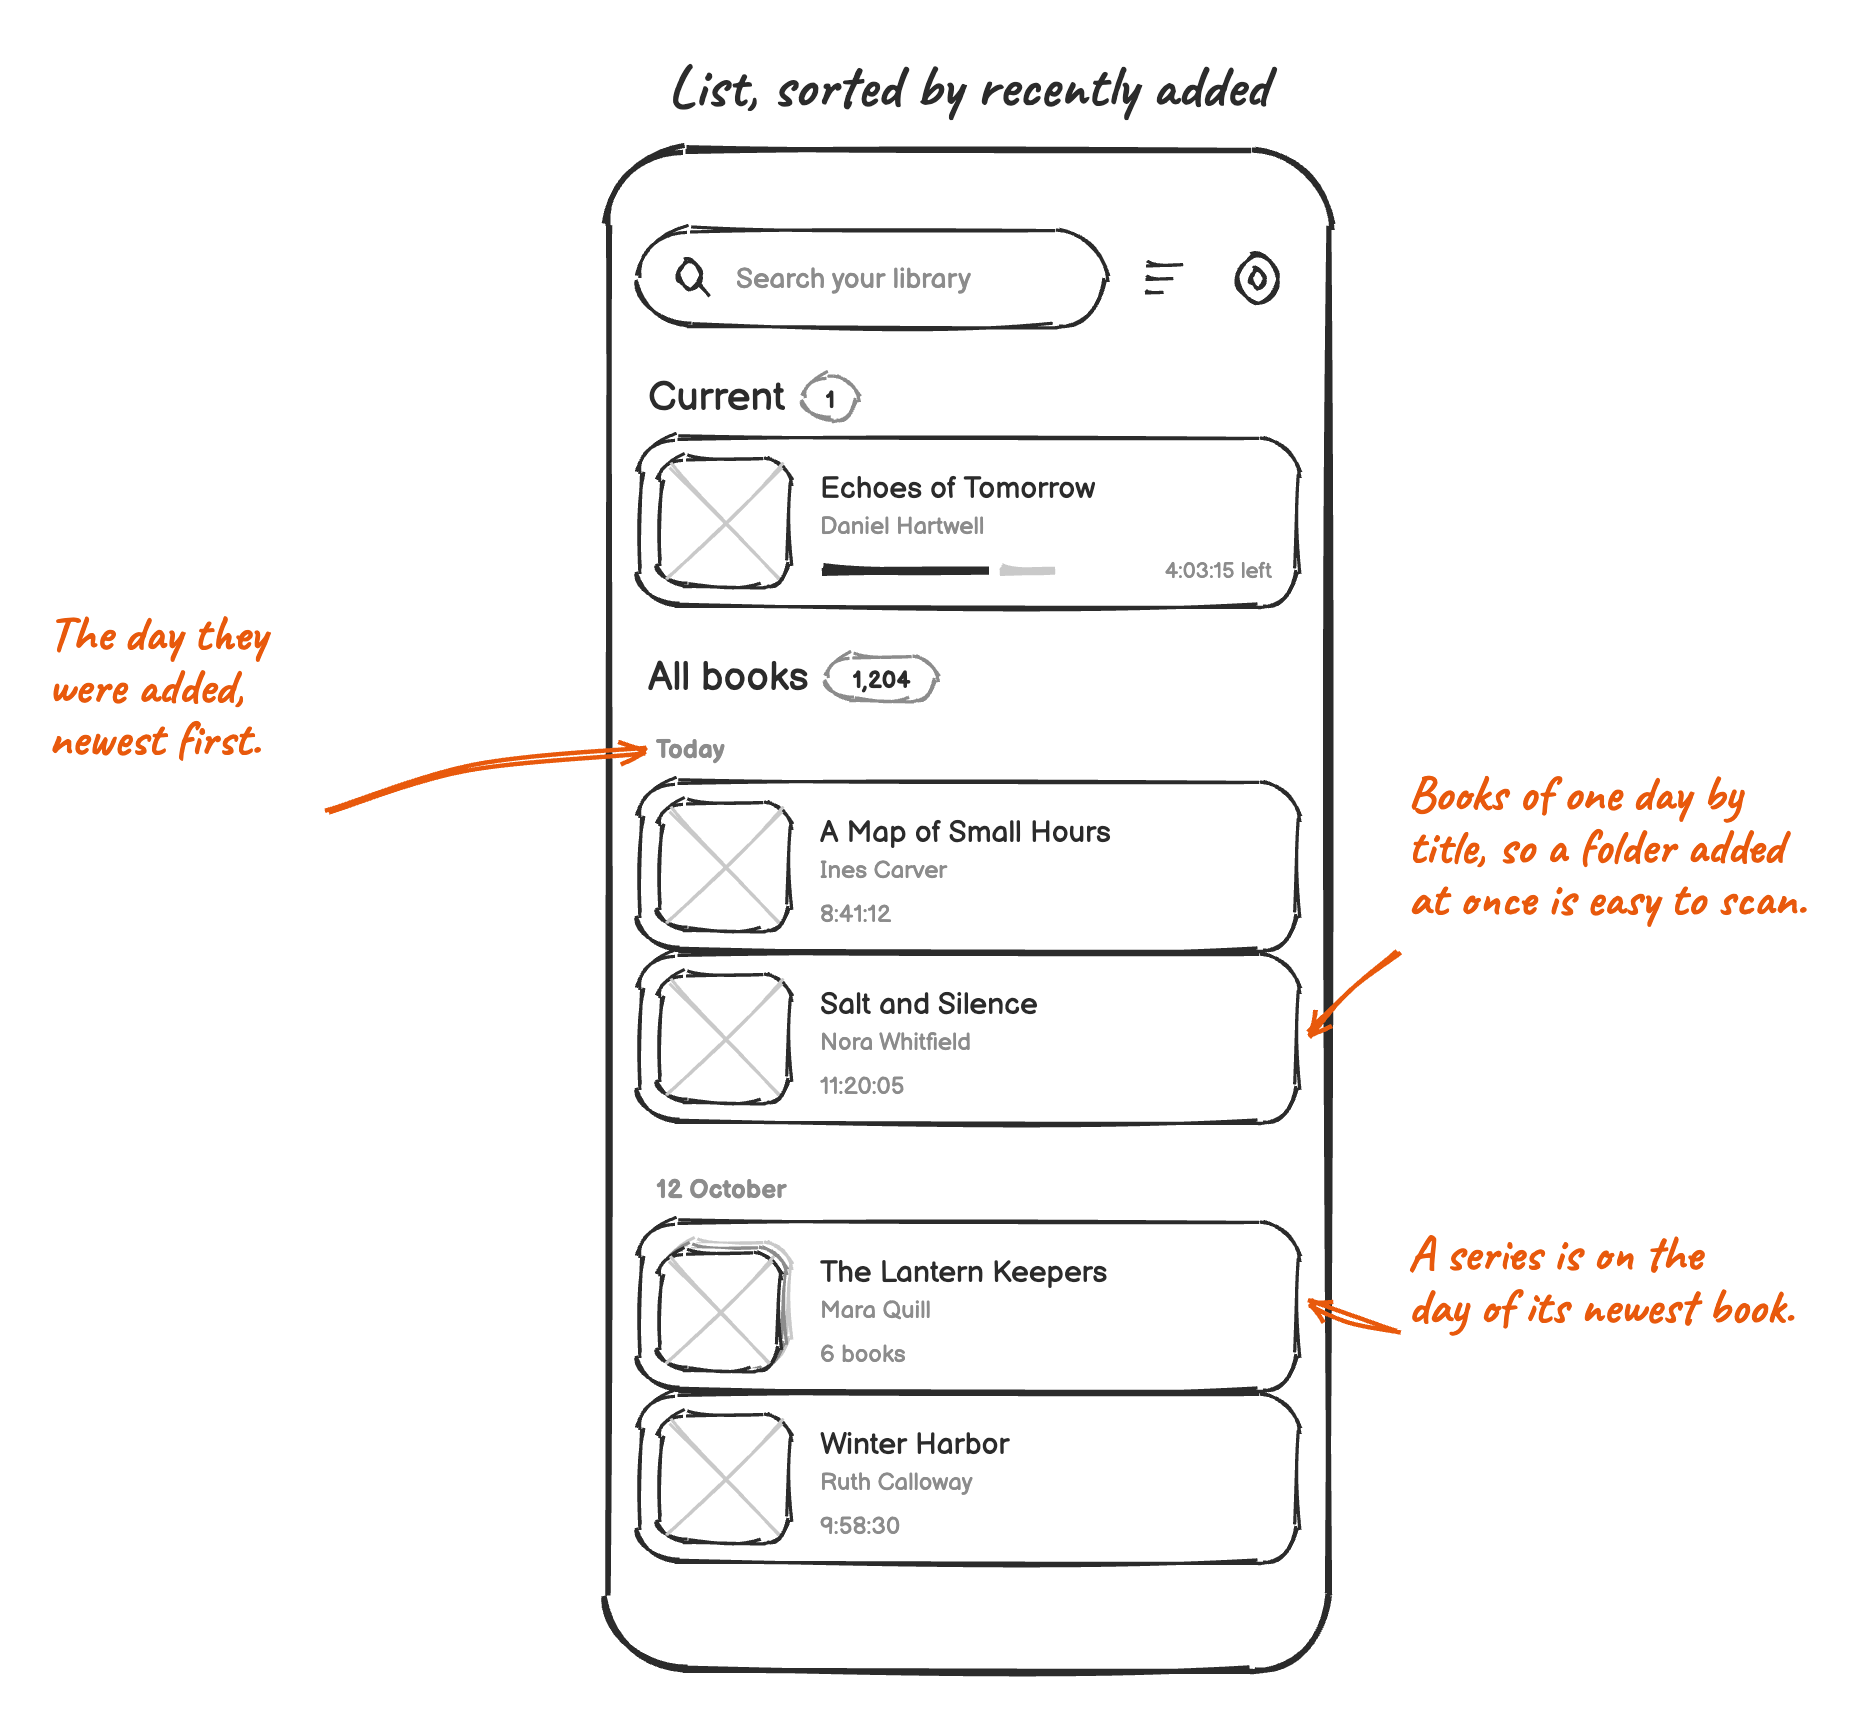
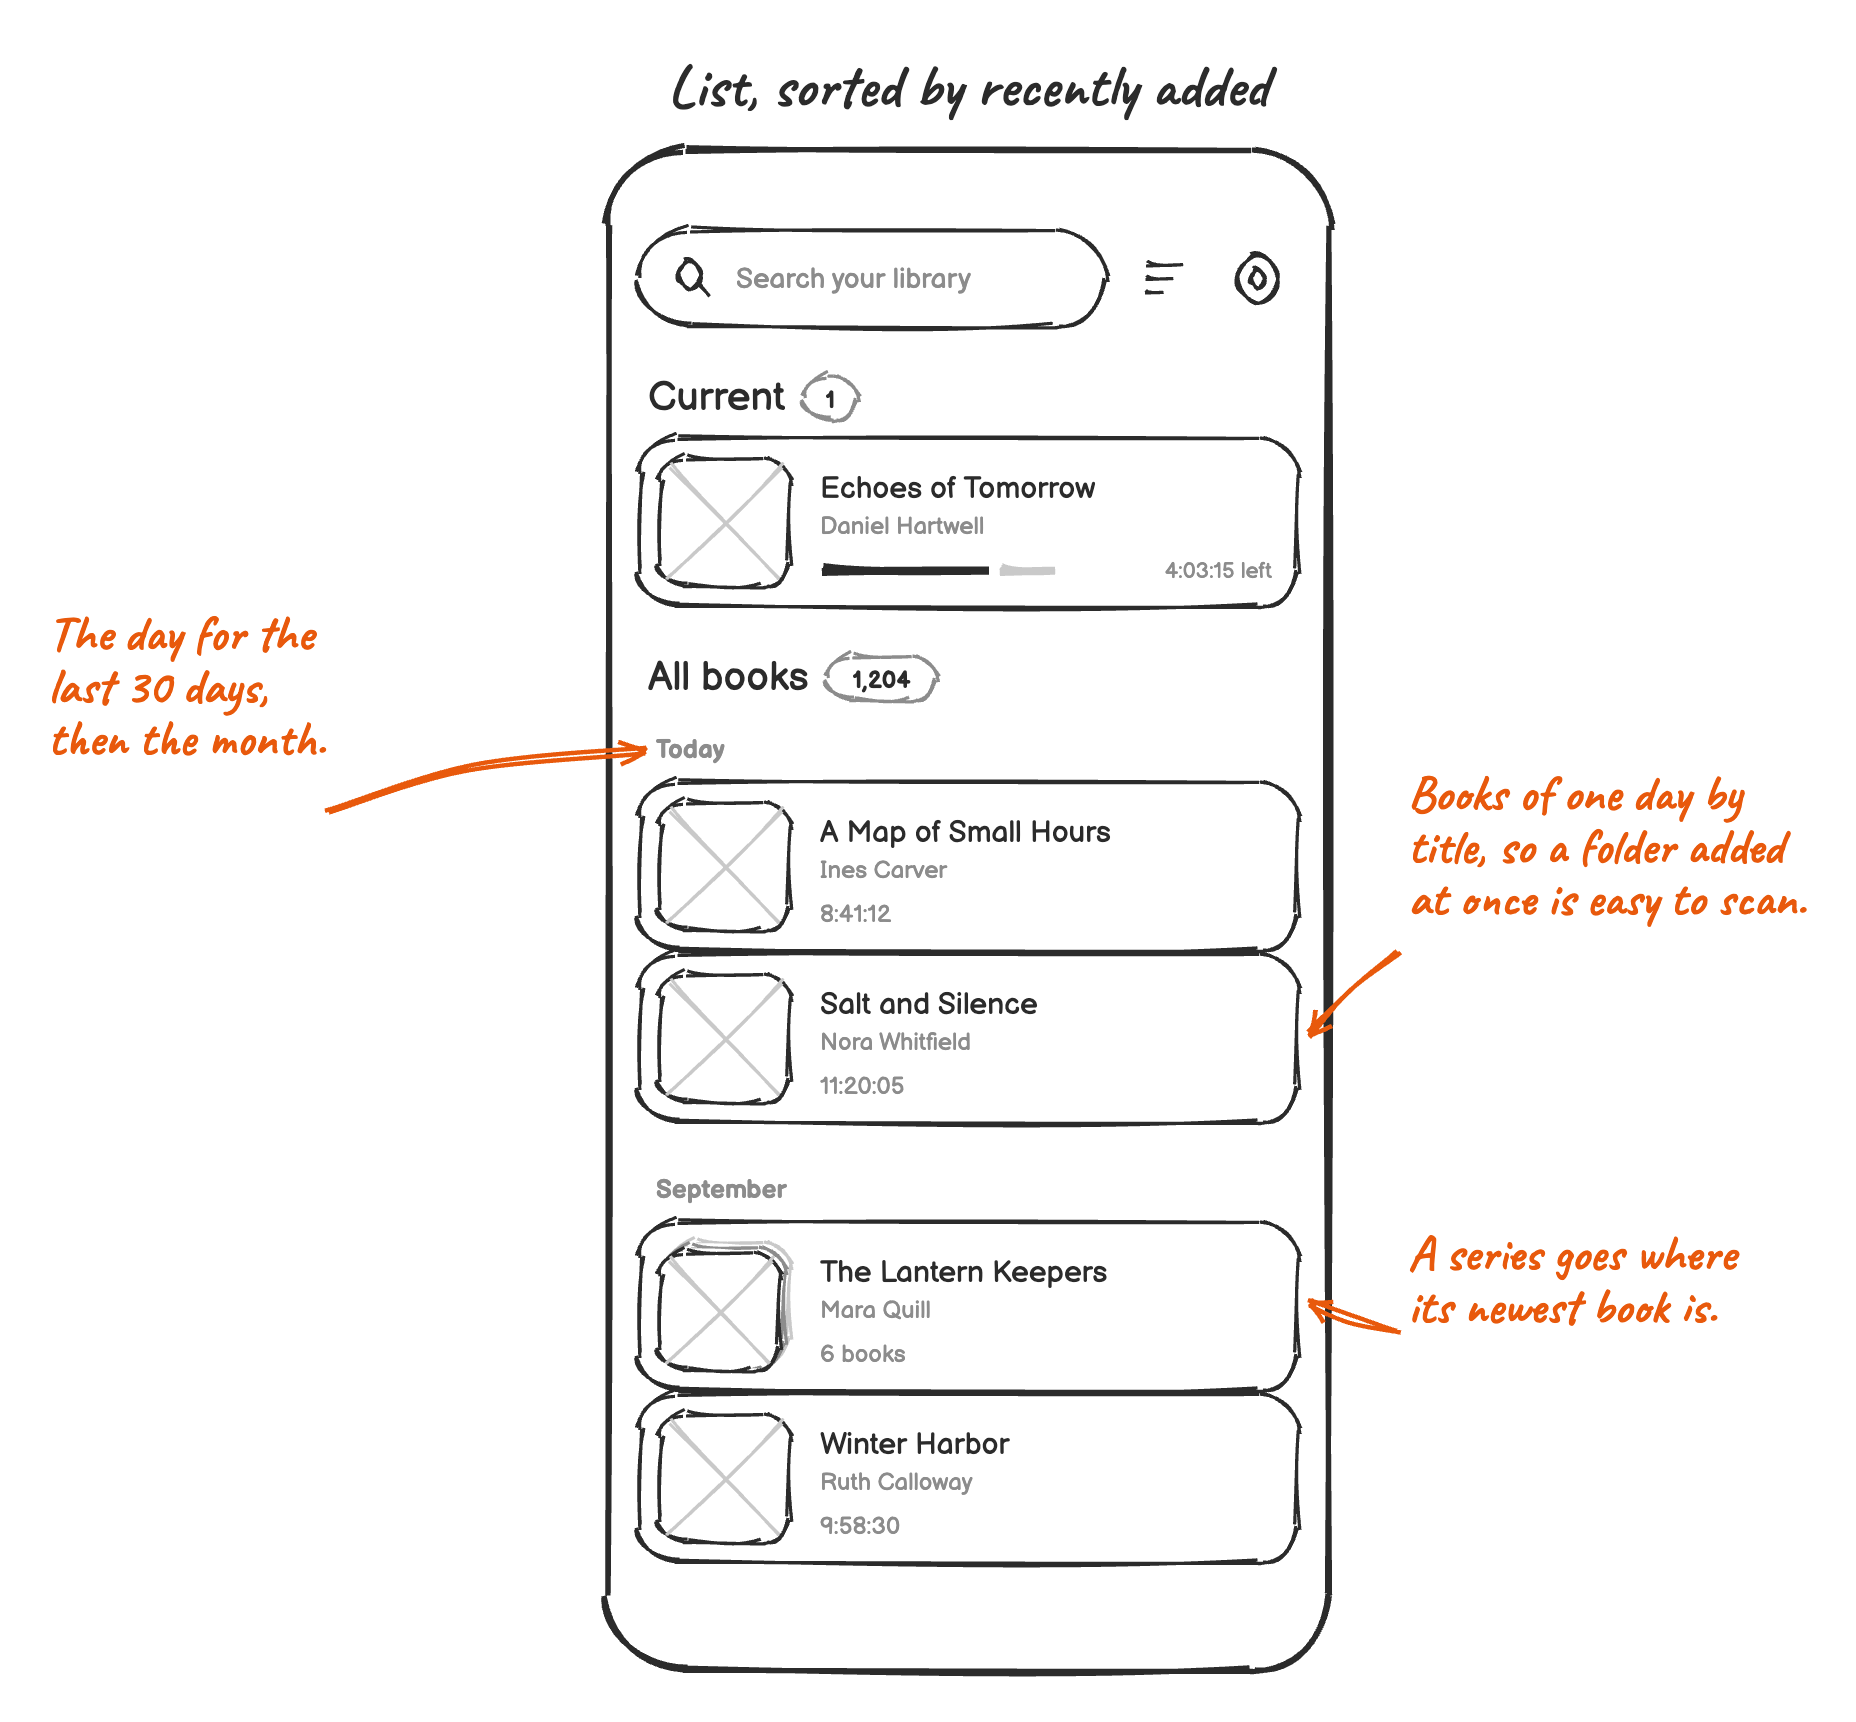
Put older books under their month when sorted by recently added

Changed region(s): [[0.0312, 0.3386, 0.1562, 0.4617], [0.75, 0.7079, 0.9688, 0.7695], [0.3438, 0.6771, 0.4062, 0.7079]]

diff --git a/docs/sketches/library-recently-added.sketch.js b/docs/sketches/library-recently-added.sketch.js
@@ -44,19 +44,19 @@ header(x + 20, y + 130, 'Current', 1);
 listRow(x, y + 144, { title: 'Echoes of Tomorrow', author: 'Daniel Hartwell', progress: 0.72, caption: '4:03:15 left' });
 
 header(x + 20, y + 270, 'All books', '1,204');
-const today = label(x + 24, y + 304, 'Today', { bold: true });
+label(x + 24, y + 304, 'Today', { bold: true });
 listRow(x, y + 316, { title: 'A Map of Small Hours', author: 'Ines Carver', caption: '8:41:12' });
 const salt = listRow(x, y + 402, { title: 'Salt and Silence', author: 'Nora Whitfield', caption: '11:20:05' });
 
-label(x + 24, y + 524, '12 October', { bold: true });
+label(x + 24, y + 524, 'September', { bold: true });
 const lantern = listRow(x, y + 536, { title: 'The Lantern Keepers', author: 'Mara Quill', caption: '6 books', series: true });
 listRow(x, y + 622, { title: 'Winter Harbor', author: 'Ruth Calloway', caption: '9:58:30' });
 
-note(20, y + 250, ['The day they', 'were added,', 'newest first.']);
+note(20, y + 250, ['The day for the', 'last 30 days,', 'then the month.']);
 arrow([[160, y + 330], [230, y + 310], [x + 18, y + 300]]);
 
 note(x + 400, y + 330, ['Books of one day by', 'title, so a folder added', 'at once is easy to scan.']);
 arrow([[x + 396, y + 400], [x + 372, y + 420], [x + 350, salt + 40]]);
 
-note(x + 400, y + 560, ['A series is on the', 'day of its newest book.']);
+note(x + 400, y + 560, ['A series goes where', 'its newest book is.']);
 arrow([[x + 396, y + 590], [x + 372, y + 586], [x + 350, lantern + 40]]);

diff --git a/docs/library.md b/docs/library.md
@@ -162,7 +162,7 @@ For books already in the library:
   book is in it once, also the ones in progress and the finished ones, and two or more books of a series are one
   stack. One order is easier to follow than one per section.
 - Title sorts books by their title and series by their name. Author sorts by author and stacks their books, see
-  below. Recently added puts the day above the books added on it, newest first.
+  below. Recently added puts the day or the month above the books added in it, newest first.
 - Inside a stack, the order of the series always holds.
 - **Show:** finished books, hidden books. Without finished books, Completed is gone, and finished books leave All
   books and the stacks.
@@ -184,11 +184,14 @@ For books already in the library:
 
 ### Sorted by recently added
 
-![Sketch: the books of each day, when the library is sorted by recently added](sketches/library-recently-added.png)
+![Sketch: the books of each day and month, when the library is sorted by recently added](sketches/library-recently-added.png)
 
-- The day stands above the books added on it, like Today, Yesterday or 12 October, newest day first.
-- The books of one day sort by title, because a folder added at once would otherwise be in the order of the scan.
-- A series is on the day of its newest book, and sorts by its name.
+- Books from the last 30 days are under the day they were added, like Today, Yesterday or 12 October. Older books
+  are under their month, like September or March 2025, so a library that grew over years doesn't become hundreds of
+  short sections. Newest first.
+- The books of one day or month sort by title, because a folder added at once would otherwise be in the order of the
+  scan.
+- A series goes where its newest book is, and sorts by its name.
 - Books added before Voice kept the date come last, under Earlier.
 
 ## 6. Hiding books
